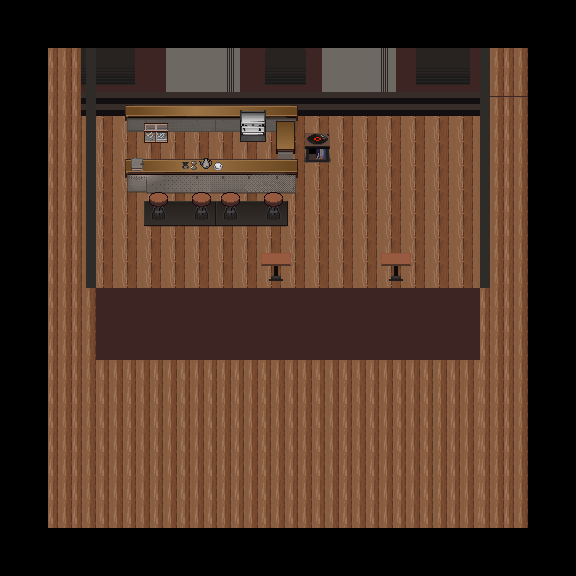
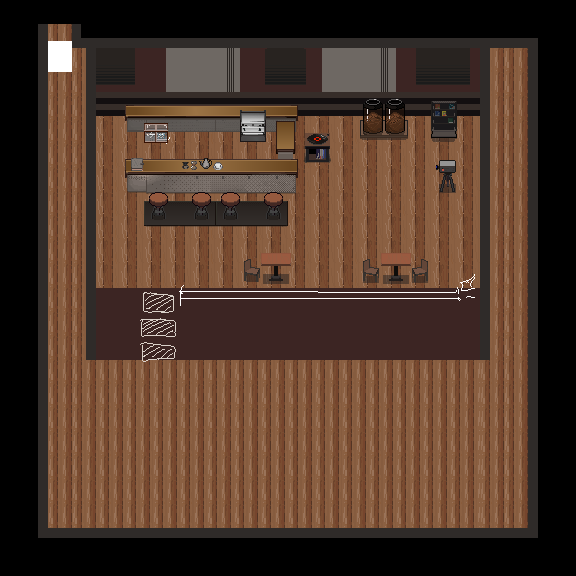
【0层工程】咖啡厅再次完善
噢噢噢哈基哈基

diff --git a/core/src/main/java/com/shatteredpixel/shatteredpixeldungeon/levels/CoffeeRoom.java b/core/src/main/java/com/shatteredpixel/shatteredpixeldungeon/levels/CoffeeRoom.java
@@ -20,32 +20,32 @@ public class CoffeeRoom extends Level {
     private static final int W = Terrain.WALL;
     private static final int e = Terrain.EMPTY;
     private static final int D = Terrain.DOOR;
-
-    // 硬编码的地图数组（24x24）
+    private static final int Z = Terrain.SIGN;
+    // 硬编码的地图数组（24x24）我去大地图也太难写了
     private static final int[] MAP = {
         W, W, W, W, W, W, W, W, W, W, W, W, W, W, W, W, W, W, W, W, W, W, W, W,
-        W, e, e, e, e, e, e, e, e, e, e, e, e, e, e, e, e, e, e, e, e, e, e, W,
-        W, e, D, e, e, e, e, e, e, e, e, e, e, e, e, e, e, e, e, e, e, e, e, W,
-        W, e, e, e, e, e, e, e, e, e, e, e, e, e, e, e, e, e, e, e, e, e, e, W,
-        W, e, e, e, e, e, e, e, e, e, e, e, e, e, e, e, e, e, e, e, e, e, e, W,
-        W, e, e, e, e, e, e, e, e, e, e, e, e, e, e, e, e, e, e, e, e, e, e, W,
-        W, e, e, e, e, e, e, e, e, e, e, e, e, e, e, e, e, e, e, e, e, e, e, W,
-        W, e, e, e, e, e, e, e, e, e, e, e, e, e, e, e, e, e, e, e, e, e, e, W,
-        W, e, e, e, e, e, e, e, e, e, e, e, e, e, e, e, e, e, e, e, e, e, e, W,
-        W, e, e, e, e, e, e, e, e, e, e, e, e, e, e, e, e, e, e, e, e, e, e, W,
-        W, e, e, e, e, e, e, e, e, e, e, e, e, e, e, e, e, e, e, e, e, e, e, W,
-        W, e, e, e, e, e, e, e, e, e, e, e, e, e, e, e, e, e, e, e, e, e, e, W,
-        W, e, e, e, e, e, e, e, e, e, e, e, e, e, e, e, e, e, e, e, e, e, e, W,
-        W, e, e, e, e, e, e, e, e, e, e, e, e, e, e, e, e, e, e, e, e, e, e, W,
-        W, e, e, e, e, e, e, e, e, e, e, e, e, e, e, e, e, e, e, e, e, e, e, W,
-        W, e, e, e, e, e, e, e, e, e, e, e, e, e, e, e, e, e, e, e, e, e, e, W,
-        W, e, e, e, e, e, e, e, e, e, e, e, e, e, e, e, e, e, e, e, e, e, e, W,
-        W, e, e, e, e, e, e, e, e, e, e, e, e, e, e, e, e, e, e, e, e, e, e, W,
-        W, e, e, e, e, e, e, e, e, e, e, e, e, e, e, e, e, e, e, e, e, e, e, W,
-        W, e, e, e, e, e, e, e, e, e, e, e, e, e, e, e, e, e, e, e, e, e, e, W,
-        W, e, e, e, e, e, e, e, e, e, e, e, e, e, e, e, e, e, e, e, e, e, e, W,
-        W, e, e, e, e, e, e, e, e, e, e, e, e, e, e, e, e, e, e, e, e, e, e, W,
-        W, e, e, e, e, e, e, e, e, e, e, e, e, e, e, e, e, e, e, e, e, e, e, W,
+        W, W, Z, Z, W, W, W, W, W, W, W, W, W, W, W, W, W, W, W, W, W, D, W, W,
+        Z, Z, D, Z, Z, Z, Z, Z, Z, Z, Z, Z, Z, Z, Z, Z, Z, Z, Z, Z, Z, e, W, W,
+        W, W, e, Z, Z, Z, Z, Z, Z, Z, Z, Z, Z, Z, Z, Z, Z, Z, Z, Z, Z, e, W, W,
+        W, W, e, Z, Z, Z, Z, Z, Z, Z, Z, Z, Z, Z, Z, Z, Z, Z, Z, Z, Z, e, W, W,
+        W, W, e, e, e, e, Z, e, e, e, Z, Z, Z, Z, e, Z, Z, e, Z, e, Z, e, W, W,
+        W, W, e, Z, e, e, e, e, e, e, e, Z, Z, Z, e, e, e, e, e, e, Z, e, W, W,
+        W, W, e, Z, e, Z, Z, Z, Z, Z, Z, Z, Z, e, e, e, e, e, Z, e, Z, e, W, W,
+        W, W, e, Z, e, e, e, e, e, e, e, e, e, e, e, e, e, e, e, e, Z, e, W, W,
+        W, W, e, Z, e, e, e, e, e, e, e, e, e, e, e, e, e, e, e, e, Z, e, W, W,
+        W, W, e, Z, e, e, e, e, e, e, e, e, e, e, e, e, e, e, e, e, Z, e, W, W,
+        W, W, e, Z, e, e, e, e, e, e, e, Z, e, e, e, e, Z, e, e, e, Z, e, W, W,
+        W, W, e, Z, Z, Z, e, Z, Z, Z, Z, Z, Z, Z, Z, Z, Z, Z, Z, Z, Z, e, W, W,
+        W, W, e, Z, Z, Z, e, Z, Z, Z, Z, Z, Z, Z, Z, Z, Z, Z, Z, Z, Z, e, W, W,
+        W, W, e, Z, Z, Z, e, Z, Z, Z, Z, Z, Z, Z, Z, Z, Z, Z, Z, Z, Z, e, W, W,
+        W, W, e, e, e, e, e, e, e, e, e, e, e, e, e, e, e, e, e, e, e, e, W, W,
+        W, W, e, e, e, e, e, e, e, e, e, e, e, e, e, e, e, e, e, e, e, e, W, W,
+        W, W, e, e, e, e, e, e, e, e, e, e, e, e, e, e, e, e, e, e, e, e, W, W,
+        W, W, e, e, e, e, e, e, e, e, e, e, e, e, e, e, e, e, e, e, e, e, W, W,
+        W, W, e, e, e, e, e, e, e, e, e, e, e, e, e, e, e, e, e, e, e, e, W, W,
+        W, W, e, e, e, e, e, e, e, e, e, e, e, e, e, e, e, e, e, e, e, e, W, W,
+        W, W, e, e, e, e, e, e, e, e, e, e, e, e, e, e, e, e, e, e, e, e, W, W,
+        W, W, Z, Z, Z, Z, Z, Z, Z, Z, Z, Z, Z, Z, Z, Z, Z, Z, Z, Z, Z, Z, W, W,
         W, W, W, W, W, W, W, W, W, W, W, W, W, W, W, W, W, W, W, W, W, W, W, W
     };
 
@@ -124,7 +124,16 @@ public class CoffeeRoom extends Level {
             return vis;
         }
     }
-
+    // 获取地块的描述
+    @Override
+    public String tileDesc(int tile) {
+        switch (tile) {
+            case Terrain.SIGN:
+                return "";
+            default:
+                return super.tileDesc( tile );
+        }
+    }
     @Override
     public Mob createMob() {
         return null;
